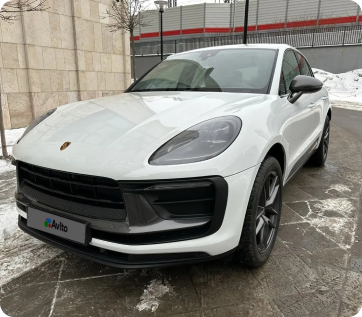
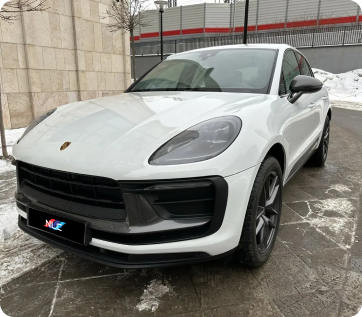
adding changes

Changed region(s): [[0.0608, 0.653, 0.2431, 0.7666]]

diff --git a/components/Footer.vue b/components/Footer.vue
@@ -21,11 +21,11 @@ const sendForm = () => {
           <p class="footer__social-text">Узнай о нас больше в соц. сетях</p>
           <ul class="footer__social-items">
             <li>
-              <a href="https://t.me/nlc_auto" target="_blank" class="footer__social-link"><svg width="52" height="42"
-                  viewBox="0 0 52 42" fill="none" xmlns="http://www.w3.org/2000/svg">
+              <a href="https://t.me/nlc_auto" target="_blank" class="footer__social-link">
+                <svg width="52" height="42" viewBox="0 0 52 42" fill="none" xmlns="http://www.w3.org/2000/svg">
                   <path
                     d="M48.4901 0.27616L2.42808 17.3825C-0.715464 18.5984 -0.697278 20.2873 1.85133 21.0404L13.6773 24.5933L41.0391 7.96736C42.3329 7.20925 43.515 7.61708 42.5433 8.44775L20.3749 27.7158L19.5591 39.4578C20.7542 39.4578 21.2815 38.9299 21.9518 38.3069L27.6959 32.9275L39.644 41.4269C41.8471 42.5953 43.4292 41.9948 43.9774 39.4628L51.8207 3.86406C52.6235 0.764054 50.5918 -0.639579 48.4901 0.27616Z"
-                    fill="white" />
+                    fill="transparent" stroke="white" />
                 </svg>
               </a>
             </li>
@@ -35,7 +35,7 @@ const sendForm = () => {
                 <svg width="51" height="49" viewBox="0 0 51 49" fill="none" xmlns="http://www.w3.org/2000/svg">
                   <path
                     d="M25.4931 16.3299C20.8108 16.3299 16.9897 20.0012 16.9897 24.5C16.9897 28.9988 20.8108 32.6701 25.4931 32.6701C30.1755 32.6701 33.9966 28.9988 33.9966 24.5C33.9966 20.0012 30.1755 16.3299 25.4931 16.3299ZM50.9972 24.5C50.9972 21.1167 51.0291 17.7641 50.8313 14.3869C50.6335 10.4643 49.7022 6.98291 46.7167 4.11448C43.7249 1.23991 40.1079 0.351184 36.0252 0.161181C32.5039 -0.0288227 29.0145 0.00182308 25.4995 0.00182308C21.9782 0.00182308 18.4888 -0.0288227 14.9739 0.161181C10.8912 0.351184 7.2678 1.24604 4.28234 4.11448C1.29049 6.98904 0.365511 10.4643 0.167756 14.3869C-0.0299986 17.7702 0.00189745 21.1228 0.00189745 24.5C0.00189745 27.8772 -0.0299986 31.2359 0.167756 34.6131C0.365511 38.5357 1.29687 42.0171 4.28234 44.8855C7.27418 47.7601 10.8912 48.6488 14.9739 48.8388C18.4952 49.0288 21.9846 48.9982 25.4995 48.9982C29.0208 48.9982 32.5103 49.0288 36.0252 48.8388C40.1079 48.6488 43.7313 47.754 46.7167 44.8855C49.7086 42.011 50.6335 38.5357 50.8313 34.6131C51.0354 31.2359 50.9972 27.8833 50.9972 24.5ZM25.4931 37.0709C18.2528 37.0709 12.4094 31.4566 12.4094 24.5C12.4094 17.5434 18.2528 11.9291 25.4931 11.9291C32.7335 11.9291 38.5769 17.5434 38.5769 24.5C38.5769 31.4566 32.7335 37.0709 25.4931 37.0709ZM39.1127 14.3501C37.4222 14.3501 36.0571 13.0385 36.0571 11.4143C36.0571 9.79006 37.4222 8.47843 39.1127 8.47843C40.8032 8.47843 42.1684 9.79006 42.1684 11.4143C42.1689 11.8 42.0902 12.1819 41.9368 12.5384C41.7834 12.8948 41.5583 13.2186 41.2745 13.4913C40.9907 13.764 40.6536 13.9803 40.2827 14.1276C39.9117 14.275 39.5141 14.3506 39.1127 14.3501Z"
-                    fill="white" />
+                    fill="transparent" stroke="white" />
                 </svg>
               </a>
             </li>
@@ -85,24 +85,24 @@ const sendForm = () => {
     <div class="footer__info">
       <div class="container">
         <div class="footer__contact">
-          <a class="footer__phone" href="tel:+71234567890">Телефон +7&nbsp;123&nbsp;456&nbsp;78&nbsp;90</a>
-          <a class="footer__email" href="mailto:ask@htmlbook.ru?subject=Вопрос по HTML">Почта pochta@gmail.com</a>
+          <a class="footer__phone" href="tel:+79381332323">Телефон +7&nbsp;938&nbsp;133&nbsp;-23&nbsp;-23</a>
+          <a class="footer__email" href="mailto:nlc-auto@yandex.ru ">Почта nlc-auto@yandex.ru </a>
         </div>
         <ul class="footer__menu">
           <li class="footer__item">
-            <a href="#" class="footer__link">Пункт&nbsp;меню</a>
+            <a href="#" class="footer__link">Главная</a>
           </li>
           <li class="footer__item">
-            <a href="#" class="footer__link">Пункт&nbsp;меню</a>
+            <a href="#stagesWork" class="footer__link">Этапы&nbsp;работ</a>
           </li>
           <li class="footer__item">
-            <a href="#" class="footer__link">Пункт&nbsp;меню</a>
+            <a href="#about" class="footer__link">О&nbsp;нас</a>
           </li>
           <li class="footer__item">
-            <a href="#" class="footer__link">Пункт&nbsp;меню</a>
+            <a href="#reviews" class="footer__link">Отзывы</a>
           </li>
           <li class="footer__item">
-            <a href="#" class="footer__link">Пункт&nbsp;меню</a>
+            <a href="#footer" class="footer__link">Контакты</a>
           </li>
         </ul>
       </div>
@@ -111,10 +111,10 @@ const sendForm = () => {
       <div class="container">
         <div class="footer__rule">
           <p class="footer__regulation">
-            Любое использование или копирование материалов или сборки материалов
-            сайта, элементов дизайна и оформления допускается только с
-            разрешения правообладателя и только со ссылкой на источник:
-            <a href="#">https://8stories.team</a>
+            Разработано в
+            <a href="#">
+              <img src="@/assets/img/footer/logoUmax.svg" alt="">
+            </a>
           </p>
           <a class="footer__policy" href="#">Политика конфиденциальности</a>
         </div>
@@ -191,6 +191,16 @@ const sendForm = () => {
 
       li {
         list-style-type: none;
+
+        svg {
+
+          &:hover {
+            path {
+              transition: fill 0.2s;
+              fill: #ffffff;
+            }
+          }
+        }
       }
     }
 
@@ -226,8 +236,23 @@ const sendForm = () => {
     max-width: 670px;
     font-style: normal;
     font-weight: 400;
-    font-size: 10px;
+    font-size: 12px;
     line-height: 165%;
+    display: flex;
+    flex-direction: row;
+    gap: 18px;
+    align-items: center;
+
+    a {
+      display: block;
+      width: 120px;
+      height: 43px;
+
+      img {
+        width: 100%;
+        height: 100%;
+      }
+    }
   }
 
   &__submit {

diff --git a/components/Header.vue b/components/Header.vue
@@ -52,7 +52,7 @@ const activeMobileHeader = () => {
     activeHeader.value = true;
     activeMobileMenu.value = !activeMobileMenu.value;
     document.body.classList.toggle('body--hidden');
-    if(!activeMobileMenu.value && window.scrollY === 0) {
+    if (!activeMobileMenu.value && window.scrollY === 0) {
         activeHeader.value = false;
     }
 }
@@ -62,7 +62,7 @@ const activeMobileHeader = () => {
 <template>
     <header :class="!activeHeader ? 'header' : 'header header--active'">
         <div class="container">
-            <a class="header__logo">
+            <a href="#main" class="header__logo">
                 <img v-if="!activeHeader" activeHeader src="../assets/img/header/logo.png" alt="">
                 <img v-if="activeHeader" src="../assets/img/header/logoActive.png" alt="">
             </a>
@@ -98,20 +98,31 @@ const activeMobileHeader = () => {
                             <p class="header__info-social-text">Узнай о нас больше<br> в соц. сетях</p>
                             <ul class="header__info-social-items">
                                 <li>
-                                    <a href="#" class="footer__social-link">
-                                        <img src="@/assets/img/header/telegram.svg" alt="">
+                                    <a href="https://t.me/nlc_auto" target="_blank" class="footer__social-link">
+                                        <svg width="36" height="29" viewBox="0 0 36 29" fill="none"
+                                            xmlns="http://www.w3.org/2000/svg">
+                                            <path
+                                                d="M33.5701 0.190682L1.68098 12.0022C-0.495321 12.8418 -0.482731 14.0079 1.28169 14.5279L9.46889 16.9811L28.4117 5.50127C29.3074 4.97782 30.1257 5.25941 29.4531 5.83297L14.1057 19.1371L13.5409 27.2447C14.3683 27.2447 14.7334 26.8801 15.1974 26.45L19.1741 22.7357L27.4458 28.6043C28.971 29.4111 30.0664 28.9964 30.4459 27.2481L35.8759 2.66804C36.4316 0.527561 35.0251 -0.441614 33.5701 0.190682Z"
+                                                fill="transparent" stroke="#1E1E1E" />
+                                        </svg>
                                     </a>
                                 </li>
                                 <li>
-                                    <a href="#" class="footer__social-link footer__social-link--insta">
-                                        <img src="@/assets/img/header/instagram.svg" alt="">
+                                    <a href="https://instagram.com/_nextlevelcar_" target="_blank"
+                                        class="footer__social-link footer__social-link--insta">
+                                        <svg width="34" height="34" viewBox="0 0 34 34" fill="none"
+                                            xmlns="http://www.w3.org/2000/svg">
+                                            <path
+                                                d="M16.9954 11.3309C13.8739 11.3309 11.3265 13.8784 11.3265 17C11.3265 20.1216 13.8739 22.6691 16.9954 22.6691C20.117 22.6691 22.6644 20.1216 22.6644 17C22.6644 13.8784 20.117 11.3309 16.9954 11.3309ZM33.9981 17C33.9981 14.6524 34.0194 12.3261 33.8875 9.98276C33.7557 7.26092 33.1348 4.84529 31.1445 2.85494C29.1499 0.860345 26.7386 0.243679 24.0168 0.11184C21.6693 -0.0199994 19.343 0.00126499 16.9997 0.00126499C14.6521 0.00126499 12.3259 -0.0199994 9.98257 0.11184C7.26079 0.243679 4.8452 0.864598 2.85489 2.85494C0.860329 4.84954 0.243674 7.26092 0.111838 9.98276C-0.0199991 12.3303 0.00126497 14.6567 0.00126497 17C0.00126497 19.3433 -0.0199991 21.6739 0.111838 24.0172C0.243674 26.7391 0.864582 29.1547 2.85489 31.1451C4.84945 33.1397 7.26079 33.7563 9.98257 33.8882C12.3301 34.02 14.6564 33.9987 16.9997 33.9987C19.3472 33.9987 21.6735 34.02 24.0168 33.8882C26.7386 33.7563 29.1542 33.1354 31.1445 31.1451C33.139 29.1505 33.7557 26.7391 33.8875 24.0172C34.0236 21.6739 33.9981 19.3476 33.9981 17ZM16.9954 25.7226C12.1685 25.7226 8.27295 21.827 8.27295 17C8.27295 12.173 12.1685 8.27736 16.9954 8.27736C21.8224 8.27736 25.7179 12.173 25.7179 17C25.7179 21.827 21.8224 25.7226 16.9954 25.7226ZM26.0751 9.95724C24.9482 9.95724 24.0381 9.04713 24.0381 7.92011C24.0381 6.7931 24.9482 5.88299 26.0751 5.88299C27.2021 5.88299 28.1122 6.7931 28.1122 7.92011C28.1126 8.18773 28.0601 8.45278 27.9579 8.70009C27.8556 8.94739 27.7056 9.1721 27.5163 9.36133C27.3271 9.55056 27.1024 9.7006 26.8551 9.80286C26.6078 9.90512 26.3428 9.95758 26.0751 9.95724Z"
+                                                fill="transparent" stroke="#1E1E1E" />
+                                        </svg>
                                     </a>
                                 </li>
                             </ul>
                         </div>
                         <div class="header__info-data">
-                            <a href="tel:+71234567890">Телефон<br> +7 123 456 78 90</a>
-                            <a href="mailto:ask@htmlbook.ru?subject=Вопрос по HTML">Почта<br> pochta@gmail.com</a>
+                            <a href="tel:+79381332323">Телефон<br> +7 938 133-23-23</a>
+                            <a href="mailto:nlc-auto@yandex.ru">Почта<br> nlc-auto@yandex.ru</a>
                         </div>
                     </div>
                 </div>
@@ -222,7 +233,7 @@ const activeMobileHeader = () => {
                 background-color: currentColor;
                 left: 0;
                 bottom: -4px;
-                transition: width .3s ease-in 0s;  
+                transition: width .3s ease-in 0s;
             }
 
             &:hover {
@@ -371,6 +382,14 @@ const activeMobileHeader = () => {
 
                             li {
                                 list-style-type: none;
+
+                                svg {
+                                    &:hover {
+                                        path {
+                                            fill: #1E1E1E;
+                                        }
+                                    }
+                                }
                             }
                         }
                     }

diff --git a/components/Index/mainCar.vue b/components/Index/mainCar.vue
@@ -1,28 +1,20 @@
 <template>
-  <div class="main-content">
+  <div class="main-content" id="main">
     <div class="content-container">
-      <div class="title">Автомобили из Европы <span>под&nbsp;заказ</span></div>
+      <div class="title">Автомобили из Европы и&nbsp;кореи <span>под&nbsp;заказ</span></div>
       <div class="telegram-box">
         <div class="text">
           БЕСПЛАТНЫЙ ПОДБОР АВТО
           <span>ЗА 2 ЧАСА</span>
         </div>
         <a class="telegram-button" href="https://t.me/nlc_auto" target="_blank">
-          <svg
-            width="66"
-            height="14"
-            viewBox="0 0 66 14"
-            fill="none"
-            xmlns="http://www.w3.org/2000/svg"
-          >
+          <svg width="66" height="14" viewBox="0 0 66 14" fill="none" xmlns="http://www.w3.org/2000/svg">
             <path
               d="M16.3525 0.0920533L1.2938 5.79416C0.266098 6.19948 0.272044 6.76244 1.10524 7.01347L4.97142 8.19776L13.9166 2.65579C14.3396 2.40308 14.726 2.53903 14.4084 2.81592L7.16101 9.2386L6.89432 13.1526C7.28501 13.1526 7.45743 12.9766 7.67656 12.769L9.55444 10.9758L13.4605 13.809C14.1808 14.1984 14.698 13.9983 14.8772 13.1543L17.4414 1.28802C17.7038 0.254685 17.0396 -0.213193 16.3525 0.0920533Z"
-              fill="white"
-            />
+              fill="white" />
             <path
               d="M65.8536 7.35355C66.0488 7.15829 66.0488 6.84171 65.8536 6.64645L62.6716 3.46447C62.4763 3.2692 62.1597 3.2692 61.9645 3.46447C61.7692 3.65973 61.7692 3.97631 61.9645 4.17157L64.7929 7L61.9645 9.82843C61.7692 10.0237 61.7692 10.3403 61.9645 10.5355C62.1597 10.7308 62.4763 10.7308 62.6716 10.5355L65.8536 7.35355ZM37.5 7.5H65.5V6.5H37.5V7.5Z"
-              fill="white"
-            />
+              fill="white" />
           </svg>
         </a>
       </div>
@@ -37,7 +29,7 @@
   background-image: url("@/assets/img/mainCar/img2.png");
   background-repeat: no-repeat;
   background-size: cover;
-  padding: 118px 150px 49px 150px;
+  padding: 135px 150px 49px 150px;
 
   .content-container {
     display: flex;
@@ -47,9 +39,9 @@
     justify-content: space-between;
 
     .title {
-      max-width: 800px;
+      max-width: 969px;
       font-weight: 900;
-      font-size: 79px;
+      font-size: 64px;
       line-height: 128.61%;
       text-transform: uppercase;
       color: #ffffff;
@@ -58,7 +50,7 @@
 
       span {
         font-family: "Druk Text Wide Cyr";
-        font-size: 65px;
+        font-size: 50px;
       }
     }
 
@@ -116,11 +108,14 @@
 
     .content-container {
       text-shadow: 2px 5px 3px rgb(36 36 36 / 12%);
+
       .title {
-        font-size: 61px;
+        font-size: 46px;
+        line-height: 128.61%;
+        max-width: 635px;
 
         span {
-          font-size: 47px;
+          font-size: 32px;
         }
       }
 
@@ -150,9 +145,10 @@
     .content-container {
       .title {
         font-size: 30px;
+        line-height: 128.61%;
 
         span {
-          font-size: 30px;
+          font-size: 22px;
         }
       }
 

diff --git a/components/Index/deliveredСars.vue b/components/Index/deliveredСars.vue
@@ -22,7 +22,7 @@
                                 <p class="deliveredCars__text">0.3 л. (286 л. с.)</p>
                             </div>
                         </div>
-                        <p class="deliveredCars__price">2 000 500 руб.</p>
+                        <p class="deliveredCars__price">6 900 000 руб.</p>
                     </div>
                 </div>
                 <div class="deliveredCars__item">
@@ -44,7 +44,7 @@
                                 <p class="deliveredCars__text">2.1 л. (190 л.с.)</p>
                             </div>
                         </div>
-                        <p class="deliveredCars__price">5 000 000 руб.</p>
+                        <p class="deliveredCars__price">5 600 000 руб.</p>
                     </div>
                 </div>
                 <div class="deliveredCars__item">
@@ -88,7 +88,7 @@
                                 <p class="deliveredCars__text"> 2.0 л. (245 л.с.)</p>
                             </div>
                         </div>
-                        <p class="deliveredCars__price">4 500 500 руб.</p>
+                        <p class="deliveredCars__price">5 250 000 руб.</p>
                     </div>
                 </div>
                 <div class="deliveredCars__item">
@@ -110,7 +110,7 @@
                                 <p class="deliveredCars__text">3.0 л (326 л. с.)</p>
                             </div>
                         </div>
-                        <p class="deliveredCars__price">2 000 500 руб.</p>
+                        <p class="deliveredCars__price">3 700 000 руб.</p>
                     </div>
                 </div>
                 <div class="deliveredCars__item">
@@ -132,7 +132,7 @@
                                 <p class="deliveredCars__text">450 л.с</p>
                             </div>
                         </div>
-                        <p class="deliveredCars__price">2 000 500 руб.</p>
+                        <p class="deliveredCars__price">5 900 000 руб.</p>
                     </div>
                 </div>
             </div>

diff --git a/components/Index/stagesWork.vue b/components/Index/stagesWork.vue
@@ -108,7 +108,7 @@ const store = useModalStepsStore();
       а также гарантируем прозрачность сделок и лучшие цены на автомобили.
     </p>
     <div class="stagesWork__weeks">
-      <p class="stagesWork__weeks-text">2 <span>недели</span></p>
+      <p class="stagesWork__weeks-text">3 <span>недели</span></p>
       <Button @click="store.openModal = true" text="Подобрать машину" />
     </div>
     <div class="stagesWork__car">
@@ -424,10 +424,6 @@ const store = useModalStepsStore();
   .stagesWork {
     align-items: flex-start;
     padding-bottom: 0;
-
-    &__text {
-      
-    }
 
     .global-title {
       padding-left: 16px;

diff --git a/components/Index/about.vue b/components/Index/about.vue
@@ -14,7 +14,7 @@
           будьте уверены - с NLC вы точно найдете то, что вам нужно.
         </div>
         <div class="logo">
-          <img src="../../assets/img/nlc-logo.svg" alt="" />
+          <img src="@/assets/img/about/logo.png" alt="" />
         </div>
       </div>
       <div class="about-card__right-container">
